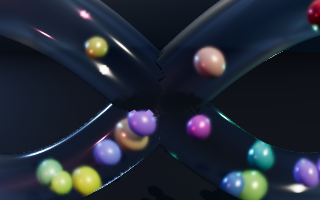
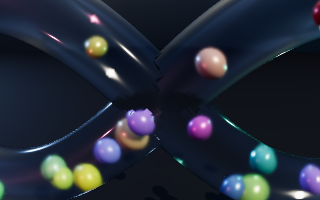
Instance the marbles, and stop the benchmark drifting its camera (#15)

diff --git a/index.html b/index.html
@@ -891,7 +891,7 @@ function recordTrails() {
 function updateTrails() {
   let o = 0;
   for (const m of marbles) {
-    const c = m.mesh.material.color;
+    const c = m.color;
     for (let k = 0; k < TRAIL - 1; k++) {
       // walk backwards from the newest sample
       const i0 = (trailHead - 1 - k + TRAIL * 2) % TRAIL;
@@ -918,7 +918,67 @@ function updateTrails() {
 /* ------------------------------------------------------------------ *
  * The marbles
  * ------------------------------------------------------------------ */
+/* One InstancedMesh, not one Mesh per marble.
+ *
+ * Thirty separate meshes cost thirty draw calls in the colour pass, thirty more
+ * filling the shadow map, and thirty more again in the extra pass the glass's
+ * transmission forces — which is where nearly all of the frame's draw calls
+ * were going.
+ *
+ * The catch is that an InstancedMesh carries exactly one material, and these
+ * marbles differ in metalness, roughness and clearcoat as well as in colour.
+ * Colour is per-instance for free (instanceColor); the other three are fed in
+ * as an instanced vec4 and patched into the standard physical shader below, so
+ * the result is the picture that was already there rather than forty
+ * identically polished balls. The SSIM gate is what keeps that claim honest. */
+const MAX_MARBLES = 40;              // must be >= the count slider's maximum
 const marbleGeo = new THREE.SphereGeometry(1, 32, 24);
+
+// metalness, roughness, clearcoat, clearcoatRoughness — one vec4 per instance.
+const finish = new THREE.InstancedBufferAttribute(new Float32Array(MAX_MARBLES * 4), 4);
+marbleGeo.setAttribute('aFinish', finish);
+
+const marbleMaterial = new THREE.MeshPhysicalMaterial({
+  color: 0xffffff,        // white, because the per-instance colour multiplies it
+  metalness: 0.3,         // these four are overwritten per instance. They only
+  roughness: 0.2,         // need to be present, and clearcoat needs to be > 0,
+  clearcoat: 1,           // so that the shader compiles the chunks that read
+  clearcoatRoughness: 0.1,//   them in at all (USE_CLEARCOAT is conditional)
+  envMapIntensity: 1.4,
+});
+
+/* Feed the per-instance finish into the physical shader.
+ *
+ * onBeforeCompile runs before the #include directives are resolved, so these
+ * replacements target the directives and append the override immediately after
+ * each one. The clearcoat lines repeat the clamping the chunk itself does,
+ * geometryRoughness and all, so this path is not subtly glossier than the
+ * uniform one it replaces. */
+marbleMaterial.onBeforeCompile = (shader) => {
+  shader.vertexShader = 'attribute vec4 aFinish;\nvarying vec4 vFinish;\n'
+    + shader.vertexShader.replace('void main() {', 'void main() {\n\tvFinish = aFinish;');
+  shader.fragmentShader = 'varying vec4 vFinish;\n' + shader.fragmentShader
+    .replace('#include <metalnessmap_fragment>',
+             '#include <metalnessmap_fragment>\n\tmetalnessFactor = vFinish.x;')
+    .replace('#include <roughnessmap_fragment>',
+             '#include <roughnessmap_fragment>\n\troughnessFactor = vFinish.y;')
+    .replace('#include <lights_physical_fragment>',
+             '#include <lights_physical_fragment>\n'
+             + '\tmaterial.clearcoat = saturate( vFinish.z );\n'
+             + '\tmaterial.clearcoatRoughness = min( max( vFinish.w, 0.0525 ) + geometryRoughness, 1.0 );');
+};
+
+const marbleMesh = new THREE.InstancedMesh(marbleGeo, marbleMaterial, MAX_MARBLES);
+marbleMesh.instanceMatrix.setUsage(THREE.DynamicDrawUsage);
+marbleMesh.castShadow = true;
+marbleMesh.receiveShadow = true;
+// A single object spanning the whole tube: it is never the right thing to cull,
+// and recomputing an instance bounding sphere every frame to learn that would
+// cost more than the test saves.
+marbleMesh.frustumCulled = false;
+marbleMesh.count = 0;
+scene.add(marbleMesh);
+
 const marbles = [];
 let hits = 0, wallHits = 0;
 
@@ -926,10 +986,6 @@ const rand = (min, max) => min + rng() * (max - min);
 const wrap01 = (u) => u - Math.floor(u);
 
 function buildMarbles() {
-  for (const m of marbles) {
-    scene.remove(m.mesh);
-    m.mesh.material.dispose();
-  }
   marbles.length = 0;
   hits = 0; wallHits = 0;
   reseed(state.seed);
@@ -951,20 +1007,19 @@ function buildMarbles() {
     const hue = wrap01(i / n + rand(-0.02, 0.02));
     const color = new THREE.Color().setHSL(hue, rand(0.6, 1.0), rand(0.44, 0.64));
 
-    const material = new THREE.MeshPhysicalMaterial({
-      color,
-      metalness: rand(0.05, 0.55),
-      roughness: rand(0.05, 0.35),
-      clearcoat: rand(0.4, 1.0),
-      clearcoatRoughness: rand(0.02, 0.2),
-      envMapIntensity: 1.4,
-    });
+    // Drawn in exactly the order the per-marble materials used to draw them:
+    // the seeded stream has to produce the same scene it did before.
+    const metalness = rand(0.05, 0.55);
+    const roughness = rand(0.05, 0.35);
+    const clearcoat = rand(0.4, 1.0);
+    const clearcoatRoughness = rand(0.02, 0.2);
 
-    const mesh = new THREE.Mesh(marbleGeo, material);
-    mesh.scale.setScalar(r);
-    mesh.castShadow = true;
-    mesh.receiveShadow = true;
-    scene.add(mesh);
+    marbleMesh.setColorAt(i, color);
+    const f = i * 4;
+    finish.array[f] = metalness;
+    finish.array[f + 1] = roughness;
+    finish.array[f + 2] = clearcoat;
+    finish.array[f + 3] = clearcoatRoughness;
 
     // Start on the spine, evenly spaced: the arc gap (L/n ≈ 3.5) is wider than
     // the largest pair of radii, so nothing starts overlapping.
@@ -980,11 +1035,25 @@ function buildMarbles() {
       .addScaledVector(up, rand(-1, 1) * CONF.swirl * Math.abs(speed));
 
     marbles.push({
-      mesh, r, m: r * r * r, pos: centre.clone(), vel,
+      r, m: r * r * r, pos: centre.clone(), vel, color,
       history: new Float32Array(TRAIL * 3),
     });
-    mesh.position.copy(centre);
+
+    // Uniform scale plus translation, written straight into the instance
+    // buffer. The off-diagonal entries are zero from allocation and stay zero,
+    // so there is nothing to build a Matrix4 for.
+    const o = i * 16;
+    const mat = marbleMesh.instanceMatrix.array;
+    mat[o] = r; mat[o + 1] = 0; mat[o + 2] = 0; mat[o + 3] = 0;
+    mat[o + 4] = 0; mat[o + 5] = r; mat[o + 6] = 0; mat[o + 7] = 0;
+    mat[o + 8] = 0; mat[o + 9] = 0; mat[o + 10] = r; mat[o + 11] = 0;
+    mat[o + 12] = centre.x; mat[o + 13] = centre.y; mat[o + 14] = centre.z; mat[o + 15] = 1;
   }
+
+  marbleMesh.count = n;
+  marbleMesh.instanceMatrix.needsUpdate = true;
+  marbleMesh.instanceColor.needsUpdate = true;
+  finish.needsUpdate = true;
   document.getElementById('s-count').textContent = String(marbles.length);
   buildTrails(marbles.length);
   for (let i = 0; i < TRAIL; i++) recordTrails();   // seed, so trails start clean
@@ -1103,7 +1172,15 @@ function step(dt) {
     if (gh) for (const m of marbles) m.vel.y -= gh;
   }
 
-  for (const m of marbles) m.mesh.position.copy(m.pos);
+  // Push the new centres into the instance buffer. Three numbers per marble
+  // into a Float32Array that is already there: no allocation per frame, which
+  // the ALLOC_FRAME gate checks.
+  const mat = marbleMesh.instanceMatrix.array;
+  for (let i = 0; i < marbles.length; i++) {
+    const o = i * 16, p = marbles[i].pos;
+    mat[o + 12] = p.x; mat[o + 13] = p.y; mat[o + 14] = p.z;
+  }
+  marbleMesh.instanceMatrix.needsUpdate = true;
 }
 
 /* ------------------------------------------------------------------ *
@@ -1350,7 +1427,8 @@ if (boot) {
 
 // exposed for the automated checks in the repository's test notes
 window.__scene = { curve, marbles, nearestOnSpine, step, totalEnergy, state, R, LENGTH, SAMPLES,
-                   droppedFaces, CONF, camera, controls, boundRadius: BOUND_R };
+                   droppedFaces, CONF, renderer, scene, camera, controls,
+                   boundRadius: BOUND_R, marbleMesh };
 </script>
 </body>
 </html>
